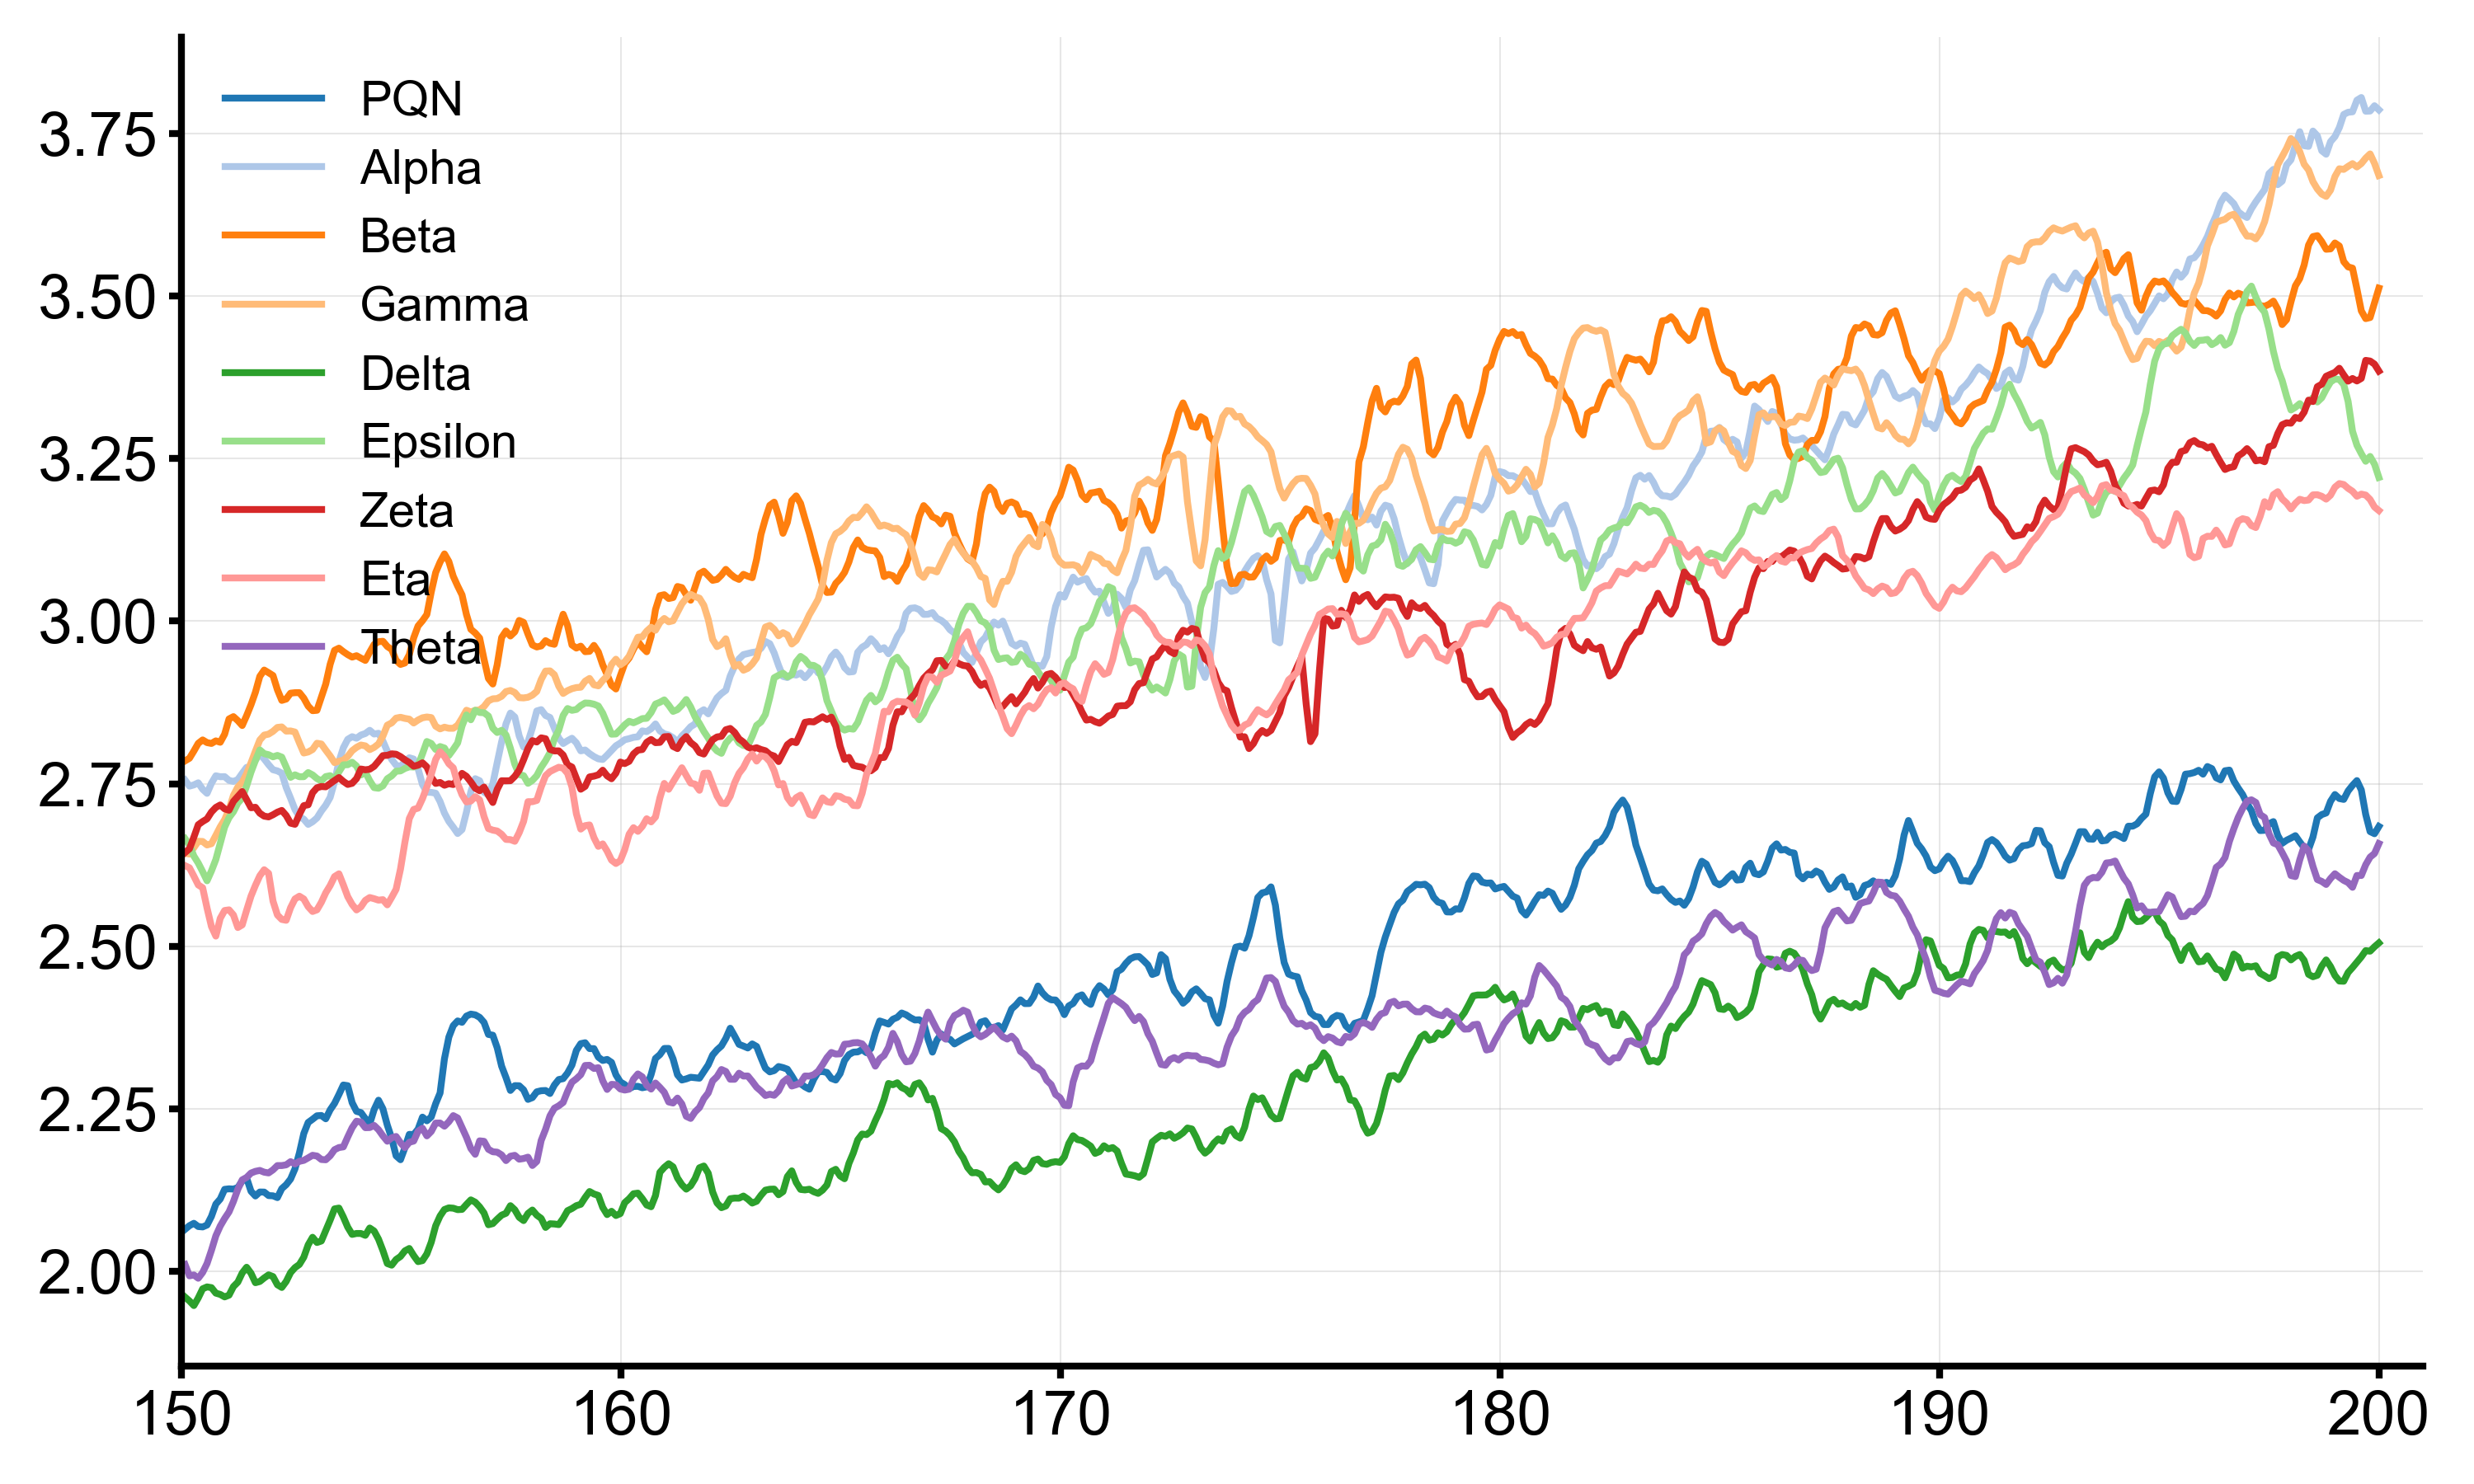
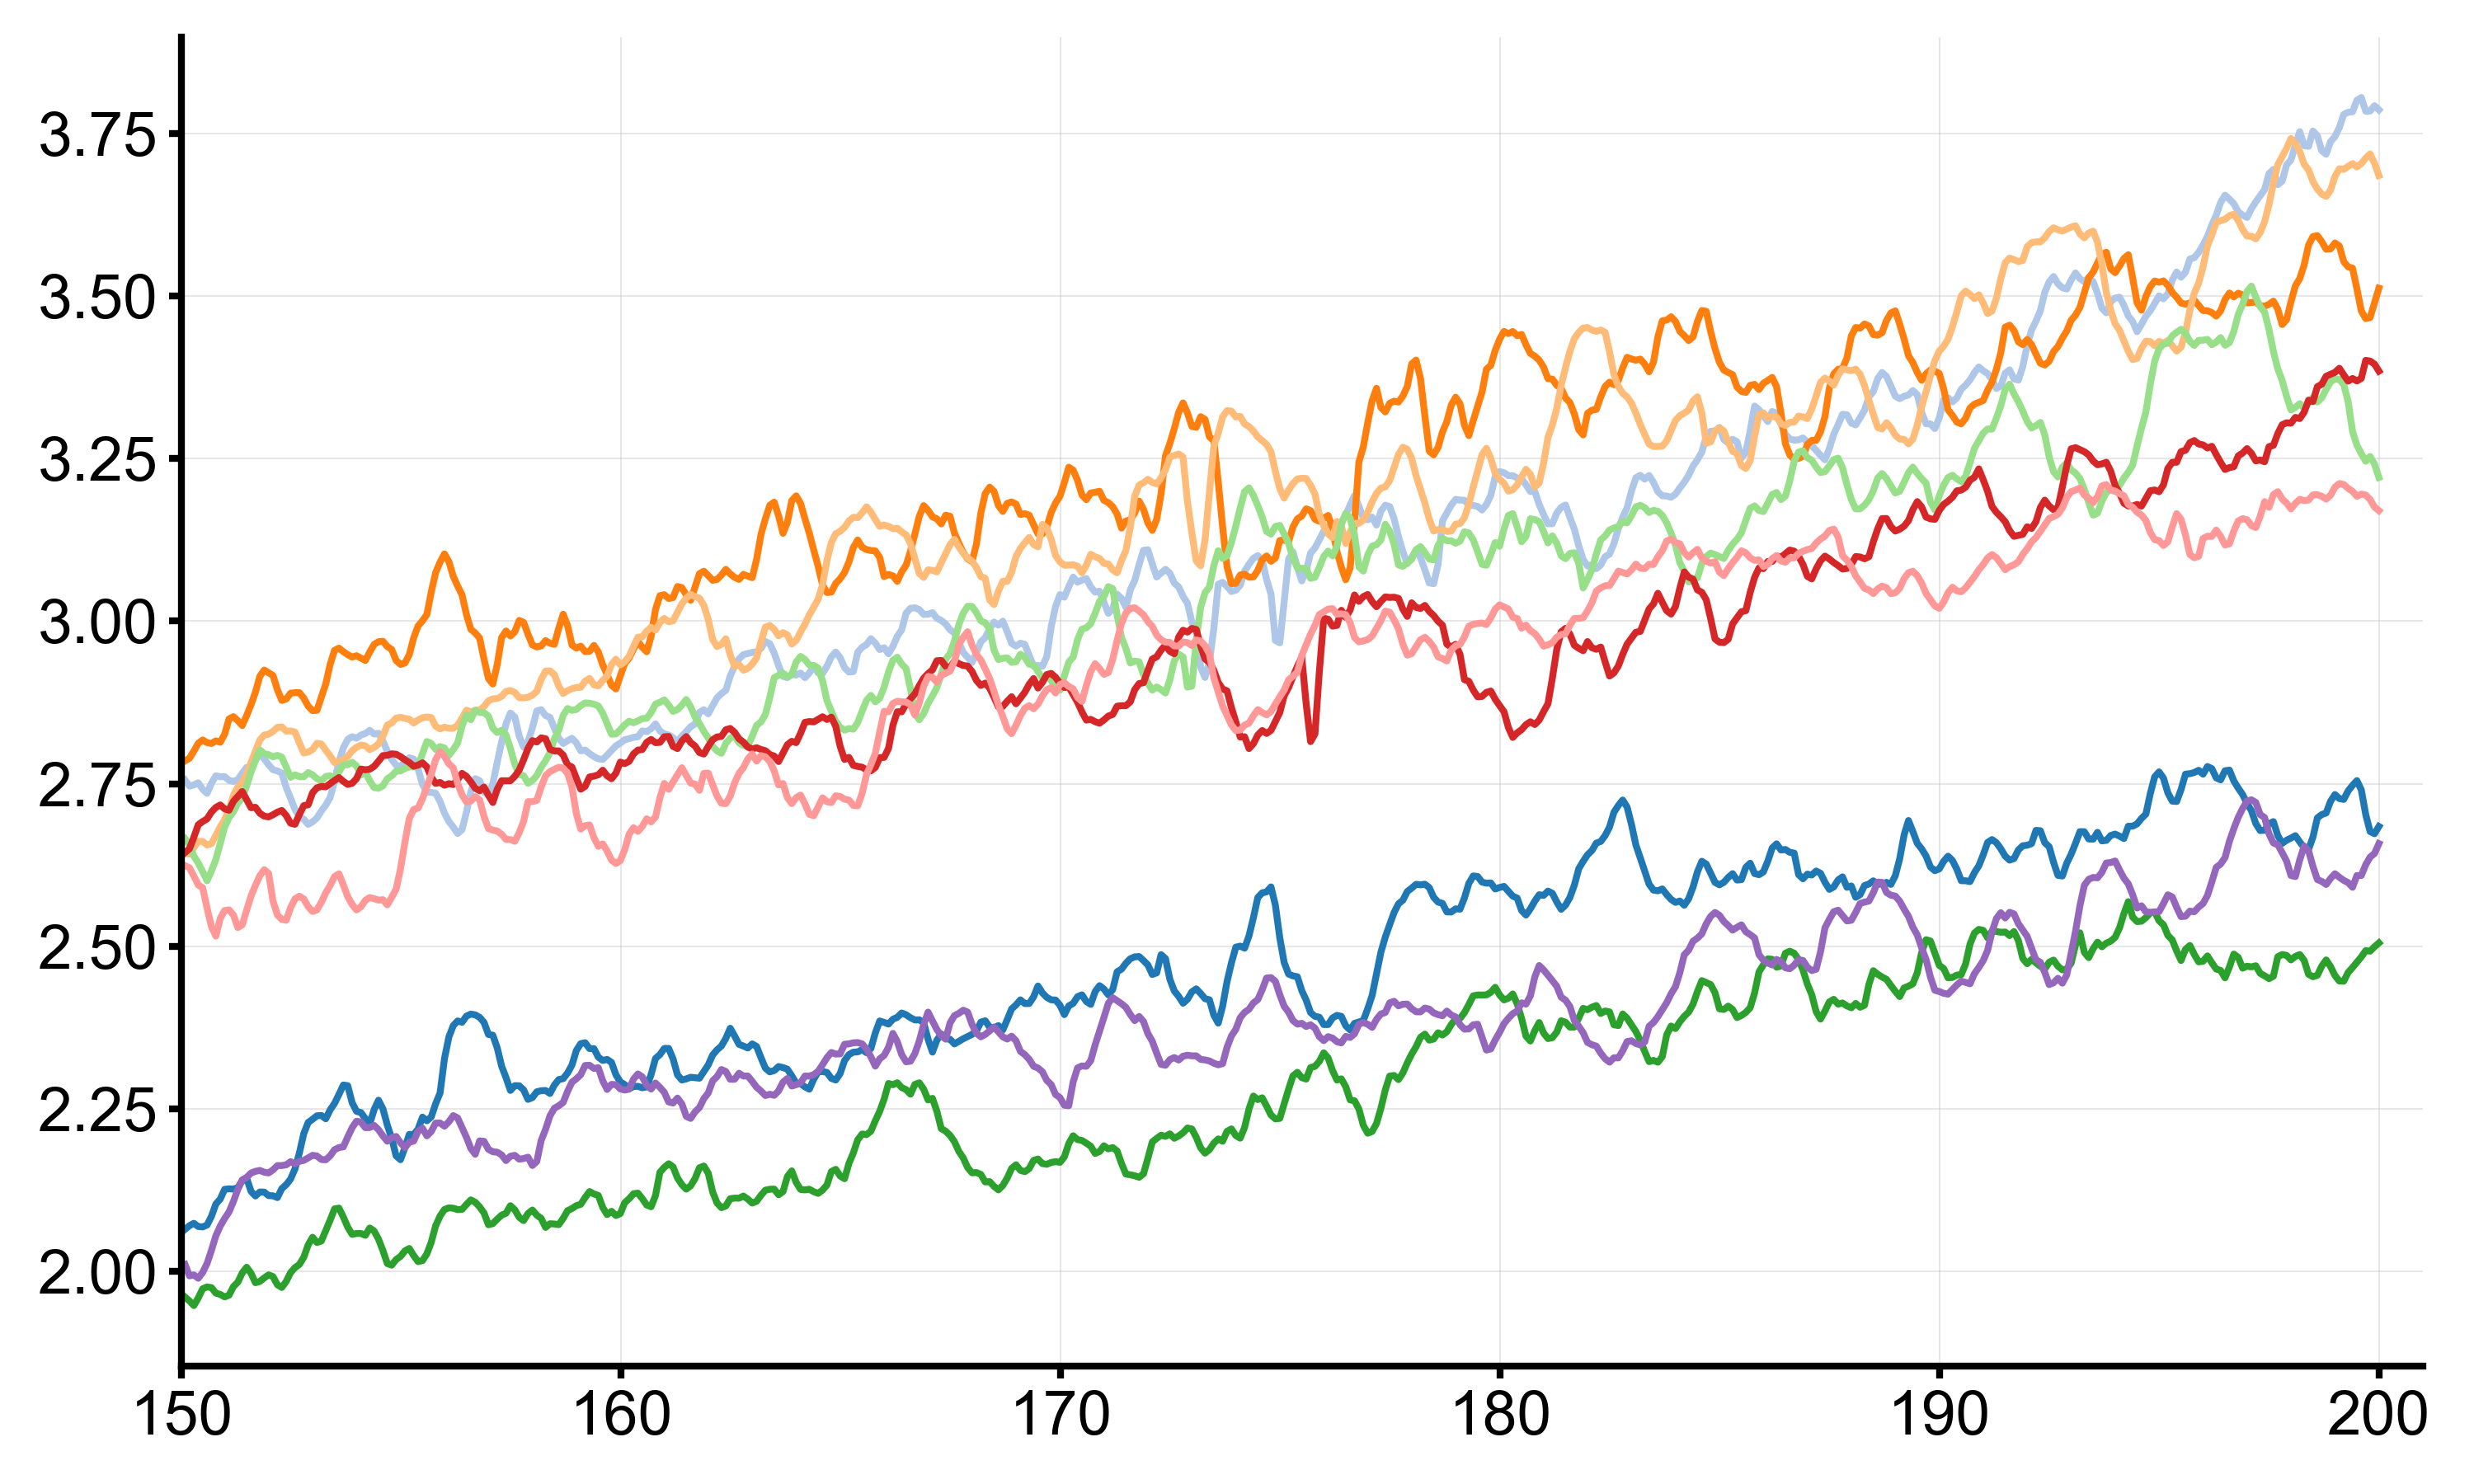
readme

diff --git a/figures/final_experiments/human_normalized_score/README.md b/figures/final_experiments/human_normalized_score/README.md
@@ -1,0 +1,80 @@
+<div align="center">
+    <img src="../legend.png" />
+</div>
+
+
+| Alien | Amidar | Assault |
+|--------|--------|--------|
+| <img src="images/alien_hns.png" width="300"> | <img src="images/amidar_hns.png" width="300"> | <img src="images/assault_hns.png" width="300"> |
+
+| Asterix | Asteroids | Atlantis |
+|---------|-----------|----------|
+| <img src="images/asterix_hns.png" width="300"> | <img src="images/asteroids_hns.png" width="300"> | <img src="images/atlantis_hns.png" width="300"> |
+
+| BankHeist | BattleZone | BeamRider |
+|-----------|------------|-----------|
+| <img src="images/bankheist_hns.png" width="300"> | <img src="images/battlezone_hns.png" width="300"> | <img src="images/beamrider_hns.png" width="300"> |
+
+| Berzerk | Bowling | Boxing |
+|---------|---------|--------|
+| <img src="images/berzerk_hns.png" width="300"> | <img src="images/bowling_hns.png" width="300"> | <img src="images/boxing_hns.png" width="300"> |
+
+| Breakout | Centipede | ChopperCommand |
+|-----------|-----------|----------------|
+| <img src="images/breakout_hns.png" width="300"> | <img src="images/centipede_hns.png" width="300"> | <img src="images/choppercommand_hns.png" width="300"> |
+
+| CrazyClimber | Defender | DemonAttack |
+|--------------|----------|-------------|
+| <img src="images/crazyclimber_hns.png" width="300"> | <img src="images/defender_hns.png" width="300"> | <img src="images/demonattack_hns.png" width="300"> |
+
+| DoubleDunk | Enduro | FishingDerby |
+|------------|--------|--------------|
+| <img src="images/doubledunk_hns.png" width="300"> | <img src="images/enduro_hns.png" width="300"> | <img src="images/fishingderby_hns.png" width="300"> |
+
+| Freeway | Frostbite | Gopher |
+|---------|-----------|--------|
+| <img src="images/freeway_hns.png" width="300"> | <img src="images/frostbite_hns.png" width="300"> | <img src="images/gopher_hns.png" width="300"> |
+
+| Gravitar | Hero | IceHockey |
+|----------|------|-----------|
+| <img src="images/gravitar_hns.png" width="300"> | <img src="images/hero_hns.png" width="300"> | <img src="images/icehockey_hns.png" width="300"> |
+
+| JamesBond | Kangaroo | Krull |
+|-----------|----------|-------|
+| <img src="images/jamesbond_hns.png" width="300"> | <img src="images/kangaroo_hns.png" width="300"> | <img src="images/krull_hns.png" width="300"> |
+
+| KungFuMaster | MontezumaRevenge | MsPacman |
+|--------------|------------------|----------|
+| <img src="images/kungfumaster_hns.png" width="300"> | <img src="images/montezumarevenge_hns.png" width="300"> | <img src="images/mspacman_hns.png" width="300"> |
+
+| NameThisGame | Phoenix | Pitfall |
+|--------------|---------|---------|
+| <img src="images/namethisgame_hns.png" width="300"> | <img src="images/phoenix_hns.png" width="300"> | <img src="images/pitfall_hns.png" width="300"> |
+
+| Pong | PrivateEye | Qbert |
+|------|------------|-------|
+| <img src="images/pong_hns.png" width="300"> | <img src="images/privateeye_hns.png" width="300"> | <img src="images/qbert_hns.png" width="300"> |
+
+| RiverRaid | RoadRunner | Robotank |
+|-----------|------------|----------|
+| <img src="images/riverraid_hns.png" width="300"> | <img src="images/roadrunner_hns.png" width="300"> | <img src="images/robotank_hns.png" width="300"> |
+
+| Seaquest | Skiing | Solaris |
+|----------|--------|---------|
+| <img src="images/seaquest_hns.png" width="300"> | <img src="images/skiing_hns.png" width="300"> | <img src="images/solaris_hns.png" width="300"> |
+
+| SpaceInvaders | StarGunner | Surround |
+|---------------|------------|----------|
+| <img src="images/spaceinvaders_hns.png" width="300"> | <img src="images/stargunner_hns.png" width="300"> | <img src="images/surround_hns.png" width="300"> |
+
+| Tennis | TimePilot | Tutankham |
+|---------|-----------|-----------|
+| <img src="images/tennis_hns.png" width="300"> | <img src="images/timepilot_hns.png" width="300"> | <img src="images/tutankham_hns.png" width="300"> |
+
+| UpNDown | Venture | VideoPinball |
+|----------|---------|--------------|
+| <img src="images/upndown_hns.png" width="300"> | <img src="images/venture_hns.png" width="300"> | <img src="images/videopinball_hns.png" width="300"> |
+
+| WizardOfWor | YarsRevenge | Zaxxon |
+|-------------|-------------|--------|
+| <img src="images/wizardofwor_hns.png" width="300"> | <img src="images/yarsrevenge_hns.png" width="300"> | <img src="images/zaxxon_hns.png" width="300"> |

diff --git a/figures/final_experiments/loss/README.md b/figures/final_experiments/loss/README.md
@@ -1,0 +1,80 @@
+<div align="center">
+    <img src="../legend.png" />
+</div>
+
+
+| Alien | Amidar | Assault |
+|--------|--------|--------|
+| <img src="images/alien_loss.png" width="300"> | <img src="images/amidar_loss.png" width="300"> | <img src="images/assault_loss.png" width="300"> |
+
+| Asterix | Asteroids | Atlantis |
+|---------|-----------|----------|
+| <img src="images/asterix_loss.png" width="300"> | <img src="images/asteroids_loss.png" width="300"> | <img src="images/atlantis_loss.png" width="300"> |
+
+| BankHeist | BattleZone | BeamRider |
+|-----------|------------|-----------|
+| <img src="images/bankheist_loss.png" width="300"> | <img src="images/battlezone_loss.png" width="300"> | <img src="images/beamrider_loss.png" width="300"> |
+
+| Berzerk | Bowling | Boxing |
+|---------|---------|--------|
+| <img src="images/berzerk_loss.png" width="300"> | <img src="images/bowling_loss.png" width="300"> | <img src="images/boxing_loss.png" width="300"> |
+
+| Breakout | Centipede | ChopperCommand |
+|-----------|-----------|----------------|
+| <img src="images/breakout_loss.png" width="300"> | <img src="images/centipede_loss.png" width="300"> | <img src="images/choppercommand_loss.png" width="300"> |
+
+| CrazyClimber | Defender | DemonAttack |
+|--------------|----------|-------------|
+| <img src="images/crazyclimber_loss.png" width="300"> | <img src="images/defender_loss.png" width="300"> | <img src="images/demonattack_loss.png" width="300"> |
+
+| DoubleDunk | Enduro | FishingDerby |
+|------------|--------|--------------|
+| <img src="images/doubledunk_loss.png" width="300"> | <img src="images/enduro_loss.png" width="300"> | <img src="images/fishingderby_loss.png" width="300"> |
+
+| Freeway | Frostbite | Gopher |
+|---------|-----------|--------|
+| <img src="images/freeway_loss.png" width="300"> | <img src="images/frostbite_loss.png" width="300"> | <img src="images/gopher_loss.png" width="300"> |
+
+| Gravitar | Hero | IceHockey |
+|----------|------|-----------|
+| <img src="images/gravitar_loss.png" width="300"> | <img src="images/hero_loss.png" width="300"> | <img src="images/icehockey_loss.png" width="300"> |
+
+| JamesBond | Kangaroo | Krull |
+|-----------|----------|-------|
+| <img src="images/jamesbond_loss.png" width="300"> | <img src="images/kangaroo_loss.png" width="300"> | <img src="images/krull_loss.png" width="300"> |
+
+| KungFuMaster | MontezumaRevenge | MsPacman |
+|--------------|------------------|----------|
+| <img src="images/kungfumaster_loss.png" width="300"> | <img src="images/montezumarevenge_loss.png" width="300"> | <img src="images/mspacman_loss.png" width="300"> |
+
+| NameThisGame | Phoenix | Pitfall |
+|--------------|---------|---------|
+| <img src="images/namethisgame_loss.png" width="300"> | <img src="images/phoenix_loss.png" width="300"> | <img src="images/pitfall_loss.png" width="300"> |
+
+| Pong | PrivateEye | Qbert |
+|------|------------|-------|
+| <img src="images/pong_loss.png" width="300"> | <img src="images/privateeye_loss.png" width="300"> | <img src="images/qbert_loss.png" width="300"> |
+
+| RiverRaid | RoadRunner | Robotank |
+|-----------|------------|----------|
+| <img src="images/riverraid_loss.png" width="300"> | <img src="images/roadrunner_loss.png" width="300"> | <img src="images/robotank_loss.png" width="300"> |
+
+| Seaquest | Skiing | Solaris |
+|----------|--------|---------|
+| <img src="images/seaquest_loss.png" width="300"> | <img src="images/skiing_loss.png" width="300"> | <img src="images/solaris_loss.png" width="300"> |
+
+| SpaceInvaders | StarGunner | Surround |
+|---------------|------------|----------|
+| <img src="images/spaceinvaders_loss.png" width="300"> | <img src="images/stargunner_loss.png" width="300"> | <img src="images/surround_loss.png" width="300"> |
+
+| Tennis | TimePilot | Tutankham |
+|---------|-----------|-----------|
+| <img src="images/tennis_loss.png" width="300"> | <img src="images/timepilot_loss.png" width="300"> | <img src="images/tutankham_loss.png" width="300"> |
+
+| UpNDown | Venture | VideoPinball |
+|----------|---------|--------------|
+| <img src="images/upndown_loss.png" width="300"> | <img src="images/venture_loss.png" width="300"> | <img src="images/videopinball_loss.png" width="300"> |
+
+| WizardOfWor | YarsRevenge | Zaxxon |
+|-------------|-------------|--------|
+| <img src="images/wizardofwor_loss.png" width="300"> | <img src="images/yarsrevenge_loss.png" width="300"> | <img src="images/zaxxon_loss.png" width="300"> |